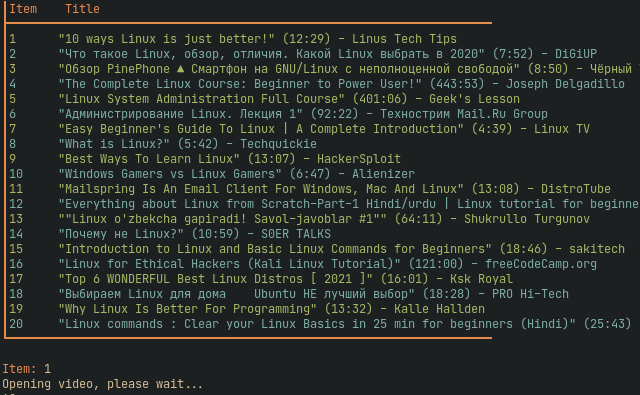
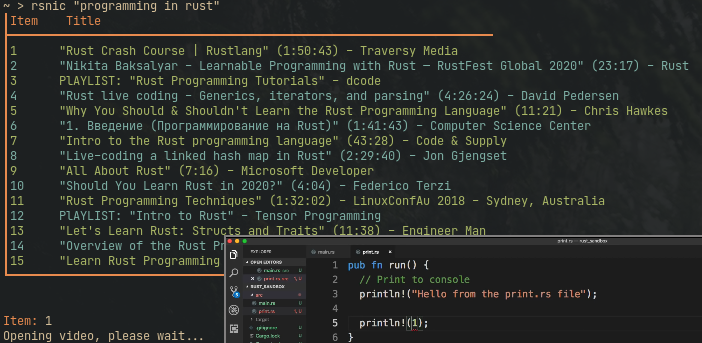
Remove subcommands, support search for channels/playlists/videos, new types

Changed region(s): [[0.0, 0.0, 1.0, 1.0], [0.4688, 0.9038, 0.625, 1.0]]

diff --git a/src/types.rs b/src/types.rs
@@ -3,56 +3,92 @@ use serde::Deserialize;
 use std::fmt;
 use std::process::Command;
 use termion::{color, style};
+use crate::timestamp::sec_to_hms;
 
-pub trait ContentItem {
-    fn play(&self, cfg: Config);
-    fn download(&self, cfg: Config);
-}
-
-// TODO: ContentItem trait, impl Display for Vec<T: ContentItem>
 /// Video type that API responses are parsed into
 /// The Invidious API is documented [here](https://github.com/iv-org/documentation/blob/master/API.md).
-#[derive(Deserialize, Debug)]
-#[serde(rename_all = "camelCase")]
-pub struct Video {
-    pub title: String,
-    pub video_id: String,
-    pub author: String,
-    pub description: String,
-    pub published: i64,
-    pub length_seconds: i32,
+#[derive(Deserialize, Debug, Clone)]
+#[serde(rename_all = "camelCase", tag = "type")]
+pub enum Content {
+    #[serde(rename_all = "camelCase")]
+    Video {
+        title: String,
+        video_id: String,
+        author: String,
+        description: String,
+        published: i64,
+        length_seconds: i32,
+        view_count: i64,
+    },
+    #[serde(rename_all = "camelCase")]
+    Channel {
+        author: String,
+        sub_count: i32,
+        video_count: i32,
+        description: String,
+    },
+    #[serde(rename_all = "camelCase")]
+    Playlist {
+        title: String,
+        playlist_id: String,
+        author: String,
+        video_count: i32,
+        // videos: Vec<Video>,
+    },
 }
 
-impl fmt::Display for Video {
+impl fmt::Display for Content {
     fn fmt(&self, f: &mut fmt::Formatter<'_>) -> fmt::Result {
-        let minutes = self.length_seconds / 60;
-        let seconds = self.length_seconds % 60;
-        write!(
-            f,
-            "\"{}\" ({}:{:0>2}) - {}",
-            self.title, minutes, seconds, self.author
-        )
+        match self {
+            Content::Video {
+                length_seconds,
+                author,
+                title,
+                ..
+            } => {
+                let timestamp = sec_to_hms(length_seconds);
+                write!(
+                    f,
+                    "\"{}\" ({}) - {}",
+                    title, timestamp, author
+                )
+            }
+            Content::Channel { author, .. } => {
+                write!(f, "CHANNEL: {}", author)
+            }
+            Content::Playlist { title, author, .. } => {
+                write!(f, "PlAYLIST: \"{}\" - {}", title, author)
+            }
+        }
     }
 }
 
-impl ContentItem for Video {
-    fn play(&self, cfg: Config) {
-        println!("Opening video, please wait...");
-        Command::new(&cfg.player)
-            .args(&cfg.player_args)
-            .arg(format!("{}/watch?v={}", &cfg.instance, self.video_id))
-            .output()
-            .expect("Couldn't display a video");
-    }
-    fn download(&self, _cfg: Config) {
-        unimplemented!()
+// TODO: play, download, subscribe traits
+// pub fn download(&self, _cfg: Config) {
+//     unimplemented!()
+// }
+
+impl Content {
+    pub fn play(&self, cfg: Config) {
+        match self {
+            Content::Video { video_id, .. } => {
+                println!("Opening video, please wait...");
+                Command::new(&cfg.player)
+                    .args(&cfg.player_args)
+                    .arg(format!("{}/watch?v={}", &cfg.instance, video_id))
+                    .output()
+                    .expect("Couldn't display a video");
+            }
+            _ => unimplemented!(),
+        }
     }
 }
 
-pub struct VideoCollection<'a>(pub &'a [Video]);
-pub struct Collection<'a, T: ContentItem>(pub &'a [T]);
+/// A collection of things Videos, Playlists, Channels
+pub struct Collection(pub Vec<Content>);
 
-impl<T: ContentItem + fmt::Display> fmt::Display for Collection<'_, T> {
+/// Collections display in a table
+impl fmt::Display for Collection {
     fn fmt(&self, f: &mut fmt::Formatter<'_>) -> fmt::Result {
         writeln!(f,
             "{}{}│Item\t Title\n├─────────────────────────────────────────────────────────────────────{}",
@@ -60,13 +96,13 @@ impl<T: ContentItem + fmt::Display> fmt::Display for Collection<'_, T> {
             color::Fg(color::Yellow),
             style::Reset
         )?;
-        for (i, video) in self.0.iter().enumerate() {
+        for (i, item) in self.0.iter().enumerate() {
             write!(f, "{}│", color::Fg(color::Yellow))?;
 
             if i % 2 == 0 {
-                writeln!(f, "{}{}\t{}", color::Fg(color::Green), i + 1, video)?;
+                writeln!(f, "{}{}\t{}", color::Fg(color::Green), i + 1, item)?;
             } else {
-                writeln!(f, "{}{}\t{}", color::Fg(color::Blue), i + 1, video)?;
+                writeln!(f, "{}{}\t{}", color::Fg(color::Blue), i + 1, item)?;
             }
         }
 
@@ -79,6 +115,3 @@ impl<T: ContentItem + fmt::Display> fmt::Display for Collection<'_, T> {
         )
     }
 }
-
-pub struct Playlist;
-pub struct Channel;

diff --git a/src/search.rs b/src/search.rs
@@ -1,17 +1,18 @@
 use crate::config::Config;
-use crate::types::Video;
+use crate::types::Content;
 use serde_json::from_str;
 use std::error::Error;
 
-/// Returns the videos found by searching for `query`
-pub fn search(cfg: &Config, query: &str) -> Result<Vec<Video>, Box<dyn Error>> {
-    let url = format!("{}/api/v1/search?q={}", cfg.instance, query);
-    let search_result_string: String = ureq::get(&url)
+/// Returns the Content items found by searching for `query`
+pub fn search(cfg: &Config, query: &str) -> Result<Vec<Content>, Box<dyn Error>> {
+    let url = format!("{}/api/v1/search/?q={}&type=all", cfg.instance, query);
+    let response: String = ureq::get(&url)
         .set("User-Agent", "Mozilla/5.0")
         .call()?
         .into_string()?;
 
-    Ok(from_str(&search_result_string)?)
+    let deserialized: Vec<Content> = from_str(&response)?;
+    Ok(deserialized[..cfg.results as usize].to_vec())
 }
 
 #[cfg(test)]
@@ -24,12 +25,17 @@ mod tests {
         let mut cfg = Config::default();
         cfg.results = 1;
 
-        let results = search(&cfg, "Max Stirner Complete Works Audio Book").unwrap();
-        let top_result = &results.first().unwrap();
-        assert_eq!(top_result.video_id, "MmdB8R9sm4Y".to_string());
-        assert_eq!(
-            top_result.title,
-            "Max Stirner Complete Works Audio Book".to_string()
-        );
+        let results: Vec<Content> = search(&cfg, "Max Stirner Complete Works Audio Book").unwrap();
+        let top_result = results.first().unwrap();
+
+        match top_result {
+            Content::Video {
+                video_id, title, ..
+            } => {
+                assert_eq!(video_id, "MmdB8R9sm4Y");
+                assert_eq!(title, "Max Stirner Complete Works Audio Book");
+            }
+            _ => (),
+        }
     }
 }

diff --git a/src/main.rs b/src/main.rs
@@ -7,38 +7,24 @@ use structopt::StructOpt;
     about = "RuSt Simple Neat Invidious Client",
     author = "Spencer B."
 )]
-enum Opt {
-    #[structopt(about = "Search for and play a video")]
-    Play { query: String },
-
-    #[structopt(about = "Search for and download a video")]
-    Download { query: String },
-
-    #[structopt(about = "Search for and subscribe to a channel")]
-    Subscribe { query: String },
-
-    #[structopt(about = "List your subscriptions' videos")]
-    List { query: String },
+struct Opt {
+    #[structopt(required=true)]
+    query: String,
 }
 
 fn main() {
     let cfg: rsnic::Config = confy::load("rsnic").expect("Error loading configuration.");
     let opt = Opt::from_args();
-    let mut videos: Vec<Video> = Vec::new();
 
-    // Search
-    match opt {
-        Opt::Play { query } => {
-            videos.append(
-                &mut search::search(&cfg, &query)
-                    .expect("An error occurred, no videos were found."),
-            );
-        }
-        _ => (),
-    }
+    // Search and display results
+    let results = search::search(&cfg, &opt.query).expect("No videos found.");
+    println!("{}", Collection(results.clone()));
 
     // Open
-    // match opt { Download => download(), player => play() }...
-    println!("{}", Collection(&videos[..cfg.results as usize]));
-    prompt::select_video(&videos).play(cfg);
+    let selected = &results[prompt::prompt_number()];
+    match selected {
+        // TODO: match opt { Download => download(), player => play() }...
+        Content::Video { .. } => selected.play(cfg),
+        _ => (),
+    }
 }

diff --git a/src/prompt.rs b/src/prompt.rs
@@ -1,10 +1,9 @@
-use crate::types::Video;
 use std::io::{self, Write};
 use termion::color;
 
-/// Selects a video
-pub fn select_video<'a>(videos: &'a [Video]) -> &'a Video {
-    let mut video_number = String::new();
+/// Prompts user to enter a number
+pub fn prompt_number() -> usize {
+    let mut number = String::new();
 
     print!(
         "{}\nItem: {}",
@@ -13,12 +12,11 @@ pub fn select_video<'a>(videos: &'a [Video]) -> &'a Video {
     );
     io::stdout().flush().expect("Could not flush output");
     io::stdin()
-        .read_line(&mut video_number)
+        .read_line(&mut number)
         .expect("Could not read input");
 
-    &videos[video_number
+    number
         .trim()
         .parse::<usize>()
-        .expect("Could not parse input")
-        - 1]
+        .expect("Could not parse input") - 1
 }

diff --git a/src/timestamp.rs b/src/timestamp.rs
@@ -1,0 +1,35 @@
+pub fn sec_to_hms(sec: &i32) -> String {
+    let hours = sec / 3600;
+    let minutes = (sec - hours * 3600) / 60;
+    let seconds = sec % 60;
+
+    if hours > 0 {
+        format!("{}:{:0>2}:{:0>2}", hours, minutes, seconds)
+    }
+    else {
+        format!("{}:{:0>2}", minutes, seconds)
+    }
+}
+
+#[cfg(test)]
+mod tests {
+    use super::*;
+
+    #[test]
+    fn test_long() {
+        let seconds = 6643;
+        assert_eq!(sec_to_hms(&seconds), "1:50:43");
+    }
+
+    #[test]
+    fn test_short() {
+        let seconds = 43;
+        assert_eq!(sec_to_hms(&seconds), "0:43");
+    }
+
+    #[test]
+    fn test_very_short() {
+        let seconds = 3;
+        assert_eq!(sec_to_hms(&seconds), "0:03");
+    }
+}

diff --git a/src/config.rs b/src/config.rs
@@ -15,7 +15,7 @@ impl std::default::Default for Config {
             instance: "https://invidious.snopyta.org".to_string(),
             player: "mpv".to_string(),
             player_args: Vec::new(),
-            results: 20,
+            results: 19,
         }
     }
 }

diff --git a/src/lib.rs b/src/lib.rs
@@ -2,6 +2,7 @@ pub mod config;
 pub mod prompt;
 pub mod search;
 pub mod types;
+pub mod timestamp;
 
 pub use crate::config::Config;
 pub use crate::types::*;
